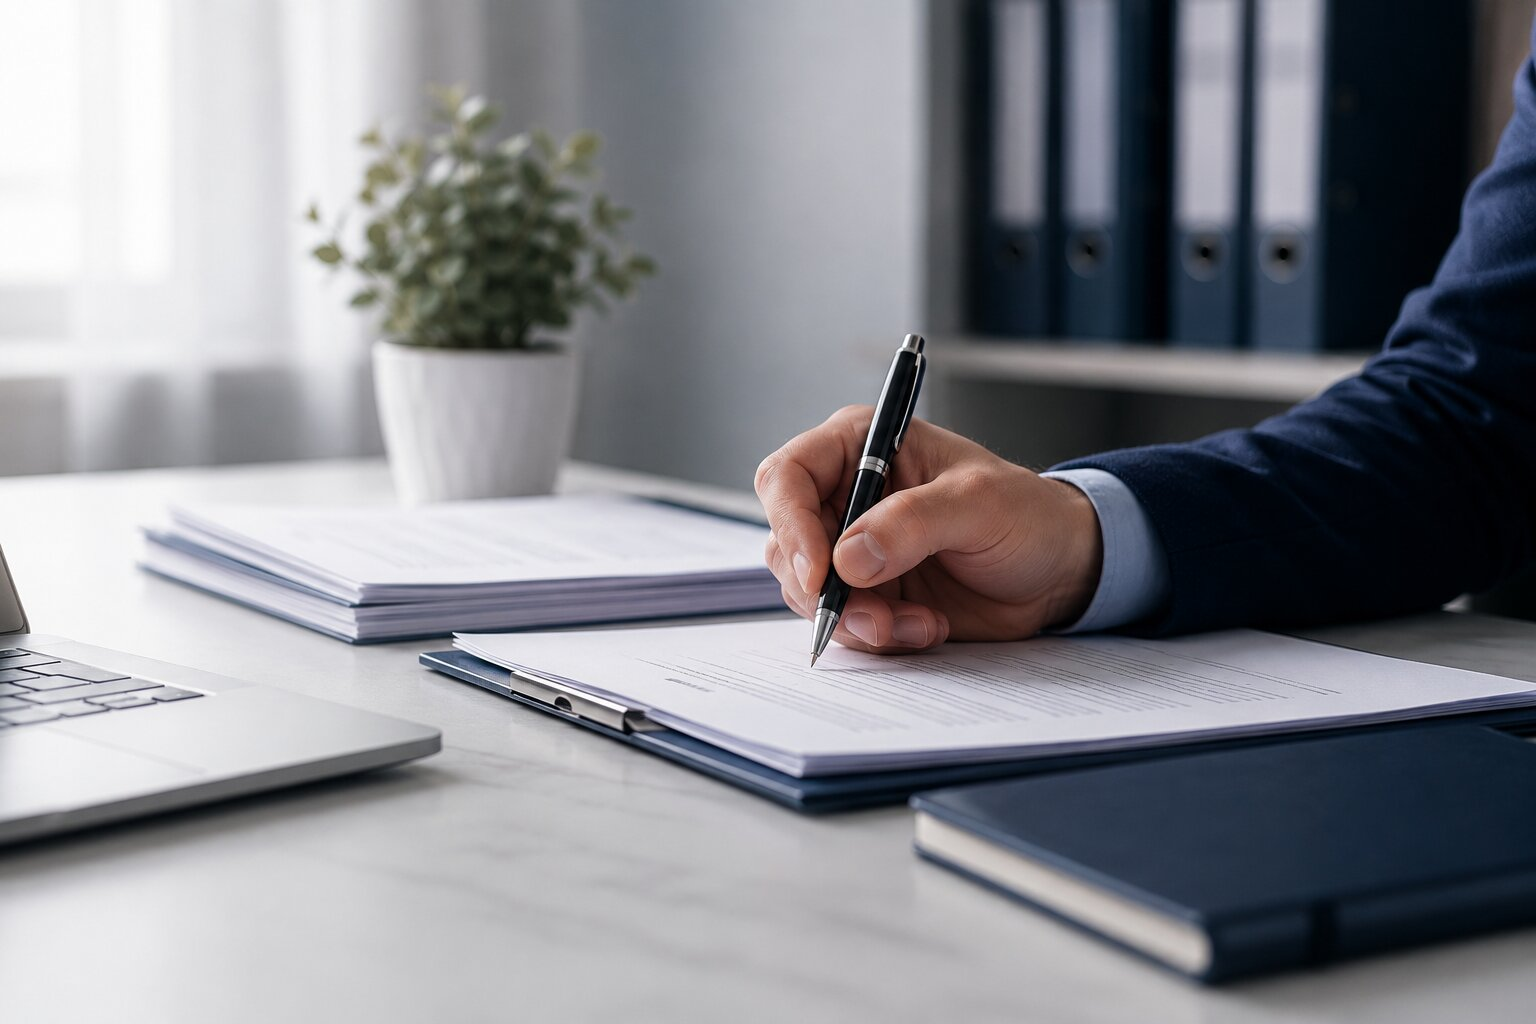
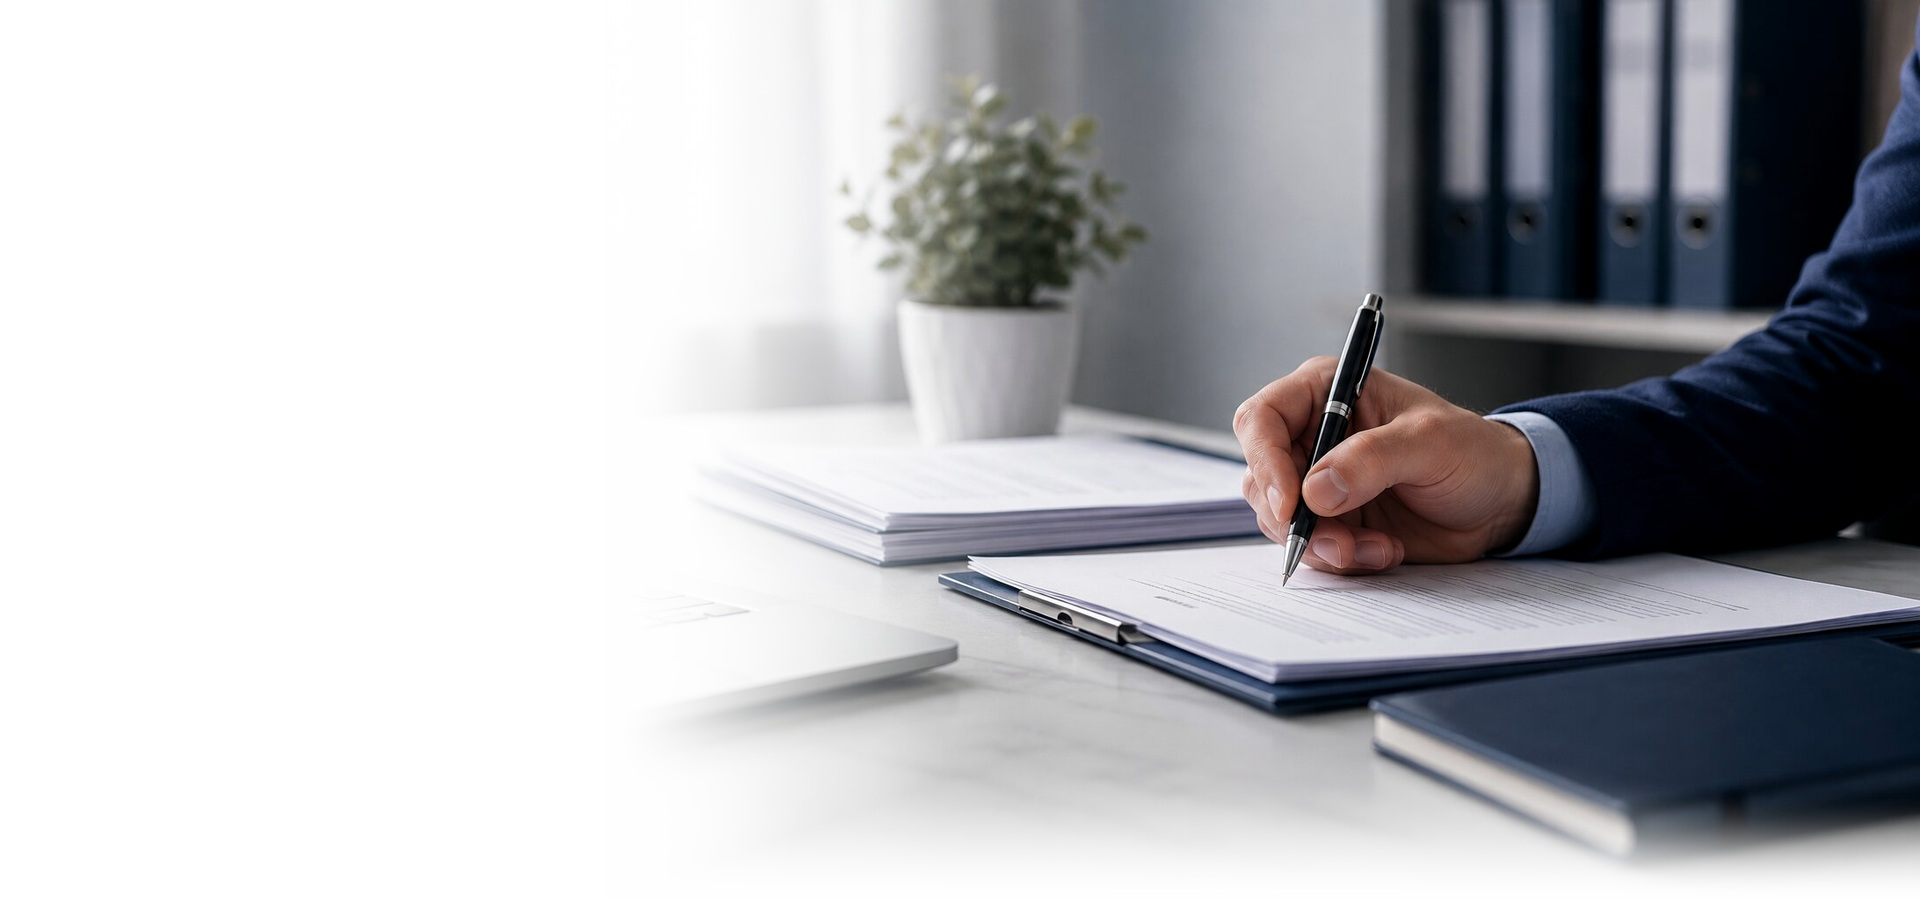
Add files via upload

diff --git a/assets/home-v2.css b/assets/home-v2.css
@@ -38,10 +38,11 @@
 
 .home-hero{position:relative;min-height:700px;overflow:hidden;background:#fff;isolation:isolate}
 .home-hero::before{content:"";position:absolute;z-index:-1;left:-280px;top:-330px;width:650px;height:650px;border-radius:50%;background:radial-gradient(circle,rgba(11,120,236,.10),transparent 68%)}
-.home-hero-media{position:absolute;z-index:-2;inset:0 0 0 34%;overflow:hidden;background:#fff}
-.home-hero-media::before,.home-hero-media::after{content:none}
+.home-hero-media{position:absolute;z-index:-2;inset:0;overflow:hidden;background:#fff}
+.home-hero-media::before{display:none}
+.home-hero-media::after{display:none}
 .home-hero-media picture{display:block;width:100%;height:100%}
-.home-hero-media img{display:block;width:100%;height:100%;object-fit:cover;object-position:58% center;filter:saturate(.98) contrast(1.035) brightness(1.015)}
+.home-hero-media img{display:block;width:100%;height:100%;object-fit:cover;object-position:center center}
 .home-hero-inner{display:flex;align-items:center;min-height:700px;padding-block:72px 116px}
 .home-hero-copy{position:relative;z-index:2;width:min(690px,59%)}
 .home-hero-copy h1{max-width:660px;margin:0 0 26px;color:var(--home-navy);font-size:clamp(3.35rem,6.25vw,5.65rem);line-height:.98}
@@ -159,7 +160,7 @@
 
 @media(max-width:1080px){
   .home-page .brand img{height:50px}
-  .home-hero{min-height:650px}.home-hero-inner{min-height:650px}.home-hero-copy{width:61%}.home-hero-media{left:32%}
+  .home-hero{min-height:650px}.home-hero-inner{min-height:650px}.home-hero-copy{width:61%}.home-hero-media{left:0}
   .home-hero-copy h1{font-size:clamp(3rem,6vw,4.8rem)}
   .home-hero-card{width:61%}
   .home-heading{gap:35px}
@@ -172,10 +173,8 @@
   .home-page .nav-links a[aria-current="page"]::after{display:none}
   .home-hero{display:flex;flex-direction:column;min-height:auto;padding-bottom:0;background:#fff}
   .home-hero-inner{order:1}
-  .home-hero-media{order:2;position:relative;inset:auto;height:470px;margin-top:0;z-index:-1;background:#fff}
-  .home-hero-media::before{content:"";position:absolute;z-index:1;inset:0;pointer-events:none;background:linear-gradient(180deg,#fff 0%,rgba(255,255,255,.18) 16%,rgba(255,255,255,0) 36%,rgba(255,255,255,0) 74%,rgba(255,255,255,.55) 90%,#fff 100%)}
-  .home-hero-media::after{content:none}
-  .home-hero-media picture{display:block;width:100%;height:100%}
+  .home-hero-media{order:2;position:relative;inset:auto;height:470px;margin-top:0;z-index:0;background:#fff}
+  .home-hero-media::before{display:none}
   .home-hero-inner{min-height:auto;padding-block:58px 46px}
   .home-hero-copy{width:100%;max-width:720px}
   .home-hero-copy h1{max-width:720px}
@@ -215,4 +214,10 @@
 }
 @media(prefers-reduced-motion:reduce){
   .home-page *{scroll-behavior:auto!important;transition:none!important}
+}
+
+@media(max-width:900px){
+  .home-page .home-hero-media::before,.home-page .home-hero-media::after{display:none!important}
+  .home-page .home-hero-media picture{display:block;width:100%;height:100%}
+  .home-page .home-hero-media img{display:block;width:100%;height:100%;object-fit:cover;object-position:center center}
 }

diff --git a/index.html b/index.html
@@ -10,7 +10,7 @@
   <link rel="icon" href="images/logo/favicon-32x32.png" sizes="32x32" type="image/png">
   <link rel="apple-touch-icon" href="images/logo/favicon-180x180.png">
   <link rel="stylesheet" href="assets/styles.css">
-  <link rel="stylesheet" href="assets/home-v2.css?v=20260629-blend-corrected-1">
+  <link rel="stylesheet" href="assets/home-v2.css">
 </head>
 <body class="home-page">
   <a class="skip-link" href="#main-content">Przejdź do treści</a>
@@ -55,8 +55,8 @@
     <section class="home-hero" aria-labelledby="hero-title">
       <div class="home-hero-media">
         <picture>
-          <source media="(max-width: 900px)" srcset="images/tlo.jpg">
-          <img src="images/tlo.png" width="1536" height="1024" alt="Przygotowywanie dokumentów przy biurku" fetchpriority="high">
+          <source media="(max-width: 900px)" srcset="images/tlo-mobile.jpg?v=20260629-final-1">
+          <img src="images/tlo.jpg?v=20260629-final-1" width="1920" height="900" alt="Przygotowywanie dokumentów przy biurku" fetchpriority="high">
         </picture>
       </div>
       <div class="container home-hero-inner">
